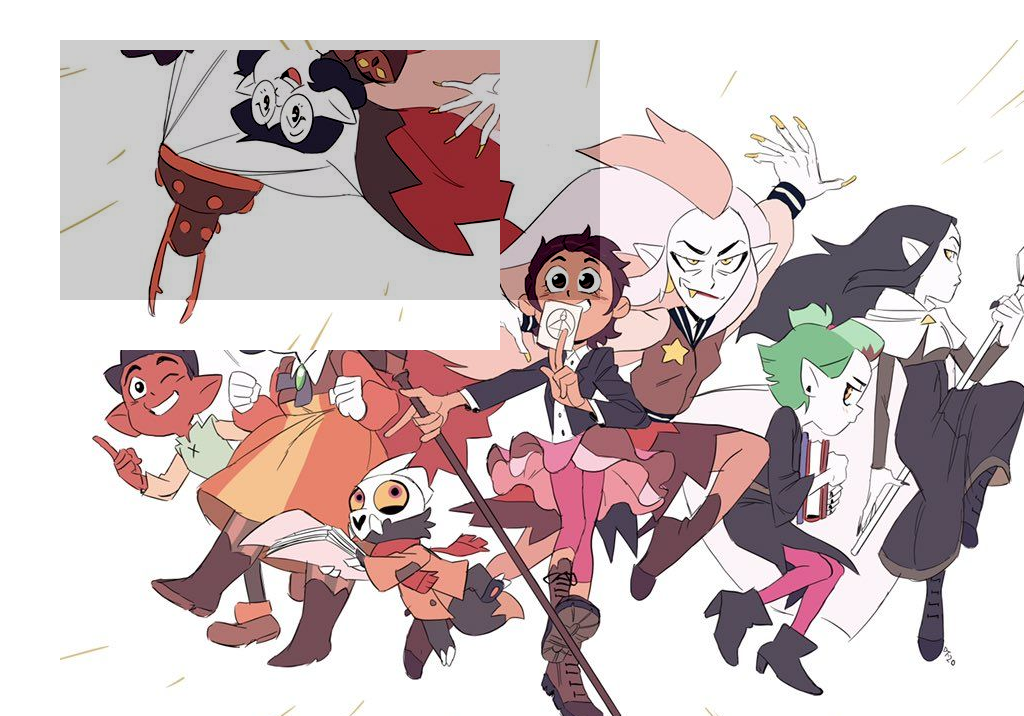
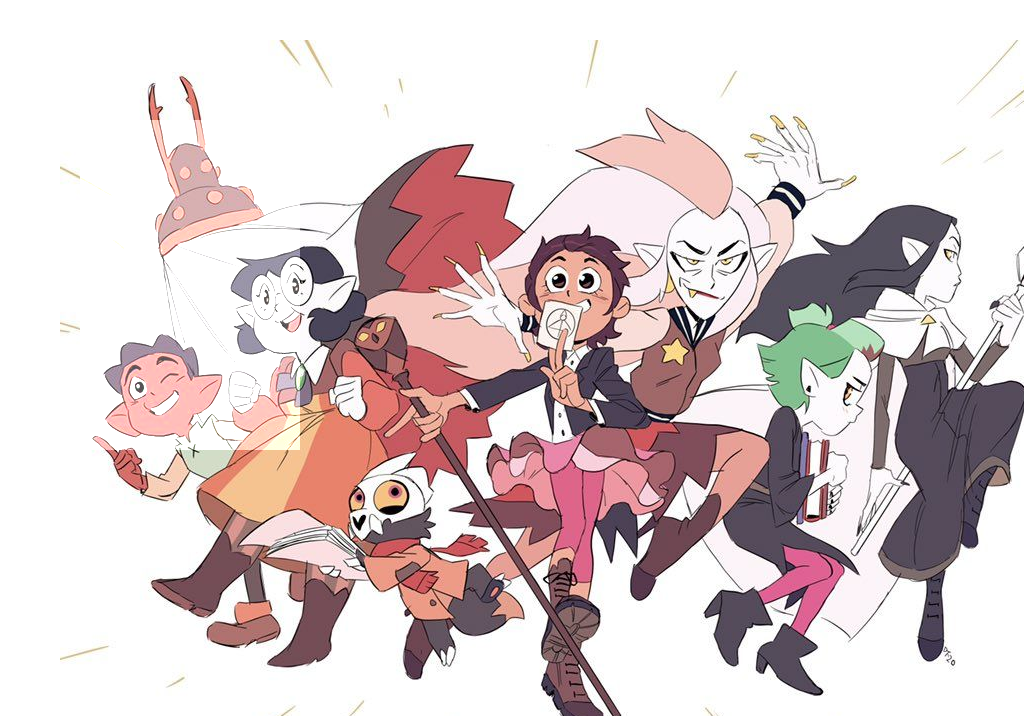
ss

Changed region(s): [[0.0312, 0.0307, 0.5938, 0.6453]]

diff --git a/src/metier/Paint.java b/src/metier/Paint.java
@@ -327,9 +327,13 @@ public class Paint
 	 */
 	private boolean imageIn (int x, int y, Image img, boolean withTrans)
 	{
+		// System.out.println("X " + x + " | w " + img.getImgWidth () + " | start at " + img.getX() + " | x max " + (img.getX() + img.getImgWidth ()));
+		// System.out.println("Y " + y + " | h " + img.getImgHeight() + " | start at " + img.getY() + " | x max " + (img.getY() + img.getImgHeight()));
+
+
 		return x >= img.getX() && x < img.getX() + img.getImgWidth () && 
-			y >= img.getY() && y < img.getY() + img.getImgHeight() &&
-			!(isTrans(img.getImg().getRGB(x, y)) && withTrans);
+			   y >= img.getY() && y < img.getY() + img.getImgHeight() &&
+			   !(isTrans(img.getImg().getRGB(x, y)) && withTrans);
 	}
 
 	public static boolean isTrans(int rgb)
@@ -581,7 +585,7 @@ public class Paint
 		int newHeight = (int) Math.ceil(oldWidth * sin + oldHeight * cos);
 	
 		BufferedImage rotatedImg = new BufferedImage(newWidth, newHeight, BufferedImage.TYPE_INT_ARGB);
-	
+
 		int xCenterOld = oldWidth / 2;
 		int yCenterOld = oldHeight / 2;
 		int xCenterNew = newWidth / 2;
@@ -613,25 +617,61 @@ public class Paint
 	}
 
 	
+	/**
+	 * Flip d'une zone rectangulaire et rotation.
+	 * @param angle L'angle de rotation en degrés.
+	 * @param xStart Coordonnée x du coin supérieur gauche de la zone rectangulaire.
+	 * @param yStart Coordonnée y du coin supérieur gauche de la zone rectangulaire.
+	 * @param xEnd Coordonnée x du coin inférieur droit de la zone rectangulaire.
+	 * @param yEnd Coordonnée y du coin inférieur droit de la zone rectangulaire.
+	 */
 	public void rotate(int xStart, int yStart, int xEnd, int yEnd, int angle) 
 	{
-		BufferedImage bi = new BufferedImage(xEnd - xStart, yEnd - yStart, BufferedImage.TYPE_INT_ARGB);
+		if (angle == 0 || angle == 360) return;
 
-		for (int x = xStart; x < xEnd; x++)
-			for (int y = yStart; y < yEnd; y++)
+		BufferedImage img = this.getImage();
+
+		BufferedImage zoneImage = img.getSubimage(xStart, yStart, xEnd - xStart, yEnd - yStart);
+		Image zoneImageObj = new Image(xStart, yStart, zoneImage);
+
+		try {
+			ImageIO.write(zoneImage,"png",new File ("jh.png") );
+		} catch (Exception e) {
+			// TODO: handle exception
+		}
+
+		this.lstImages.add(zoneImageObj);
+		this.rotate(zoneImageObj, angle);
+		
+		
+		
+		for (int x = xStart; x < xEnd; x++) 
+		{
+			for (int y = yStart; y < yEnd; y++) 
 			{
-				Image image = this.getClickedImage(x, y);
-
-				if(image != null)
+				System.out.println(xStart + " " + x + " | " + yEnd + " " + y);
+				ArrayList<Image> lst = this.getClickedImages(x, y);
+				for (Image imgInZone : lst) 
 				{
-					int localX = x - image.getX();
-					int localY = y - image.getY();
-
-
-					// bi.setRGB(x, y  );
+					// Si l'image est totalement couvert dans la zone on l'enlève de la liste
+					if (imgInZone.getX() >= xStart && imgInZone.getX() + imgInZone.getImgWidth () <= xEnd &&
+					    imgInZone.getY() >= yStart && imgInZone.getY() + imgInZone.getImgHeight() <= yEnd) 
+					{
+						this.lstImages.remove(imgInZone);
+					}else {
+						BufferedImage bi = imgInZone.getImg();
+						int localX = x - imgInZone.getX();
+						int localY = y - imgInZone.getY();
+						if (localX >= 0 && localX < bi.getWidth() && localY >= 0 && localY < bi.getHeight()) 
+						{
+							bi.setRGB(localX, localY, 0);  
+						}
+					}
 				}
 			}
+		}
 	}
+
 	
 
 
@@ -929,12 +969,13 @@ public class Paint
 			p.addImage(img);
 			// p.bucket(0,0,Color.RED.getRGB(), 30);
 
-			p.flipVertical(50,50,500,350);
-			p.setLuminosite(0,0,600,300,-50);
+			// p.flipVertical(50,50,500,350);
+			// p.setLuminosite(0,0,600,300,-50);
 			// p.setLuminosite(img, 50);
 			// p.setLuminosite(img, -50);
 			// p.setLuminosite(img, -50);
-			// p.rotate(img, 30);
+
+			p.setLuminosite(80,120,300,450,80);
 
 			ImageIO.write(p.getImage(),"png",new File ("fin.png") );
 
